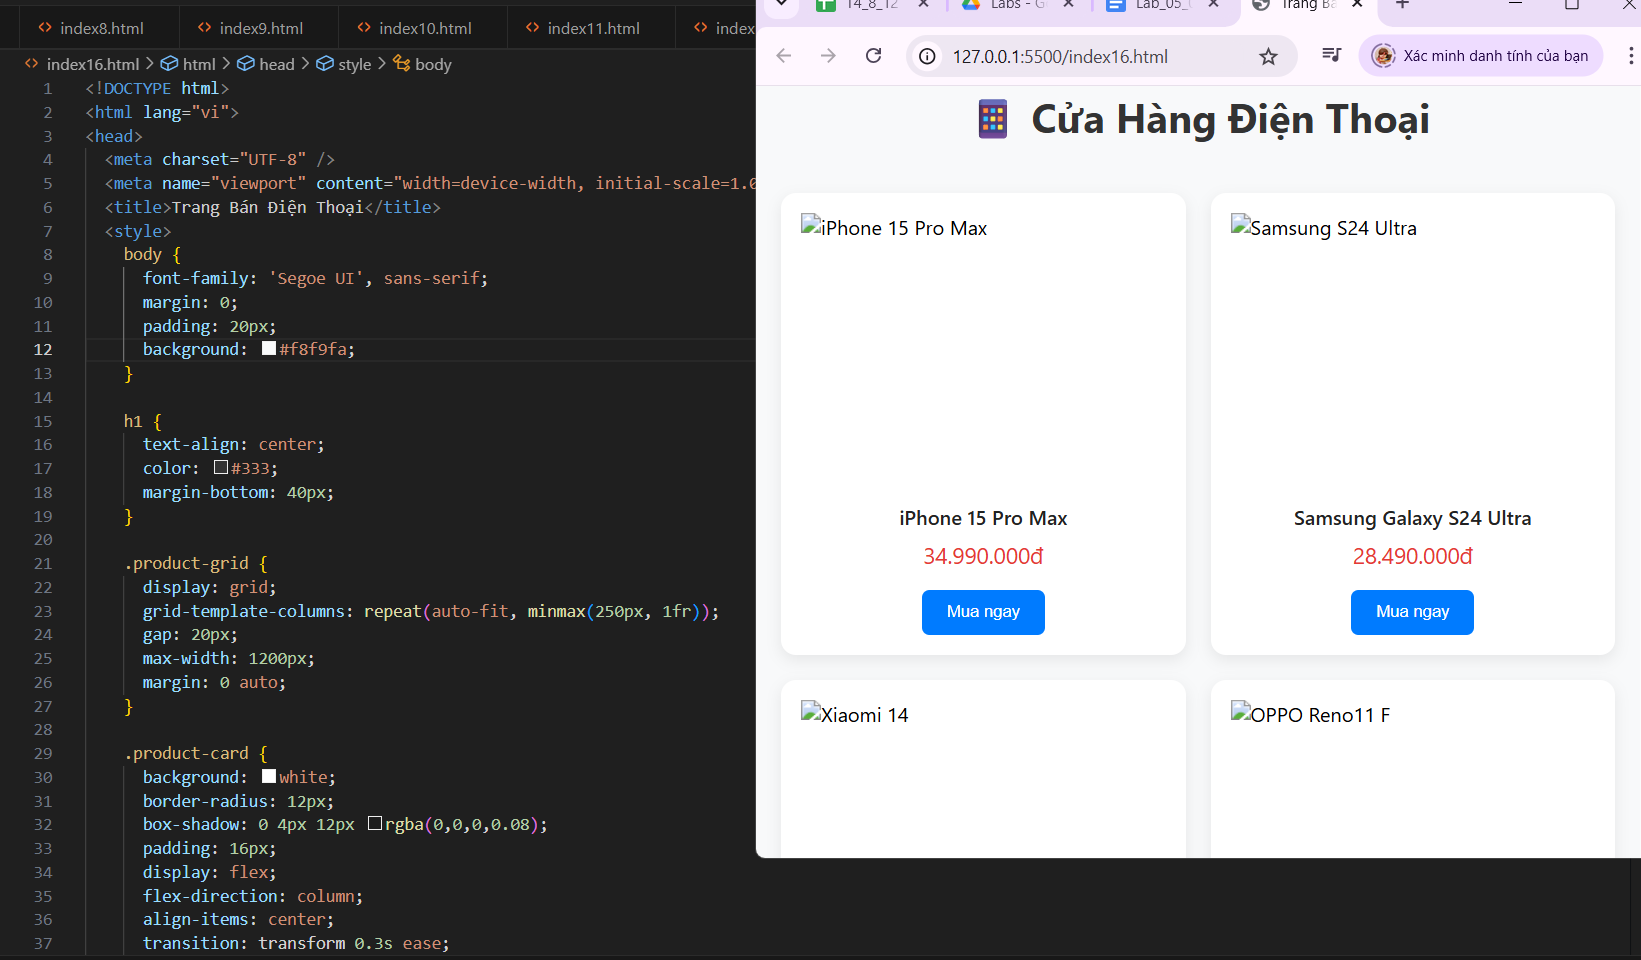
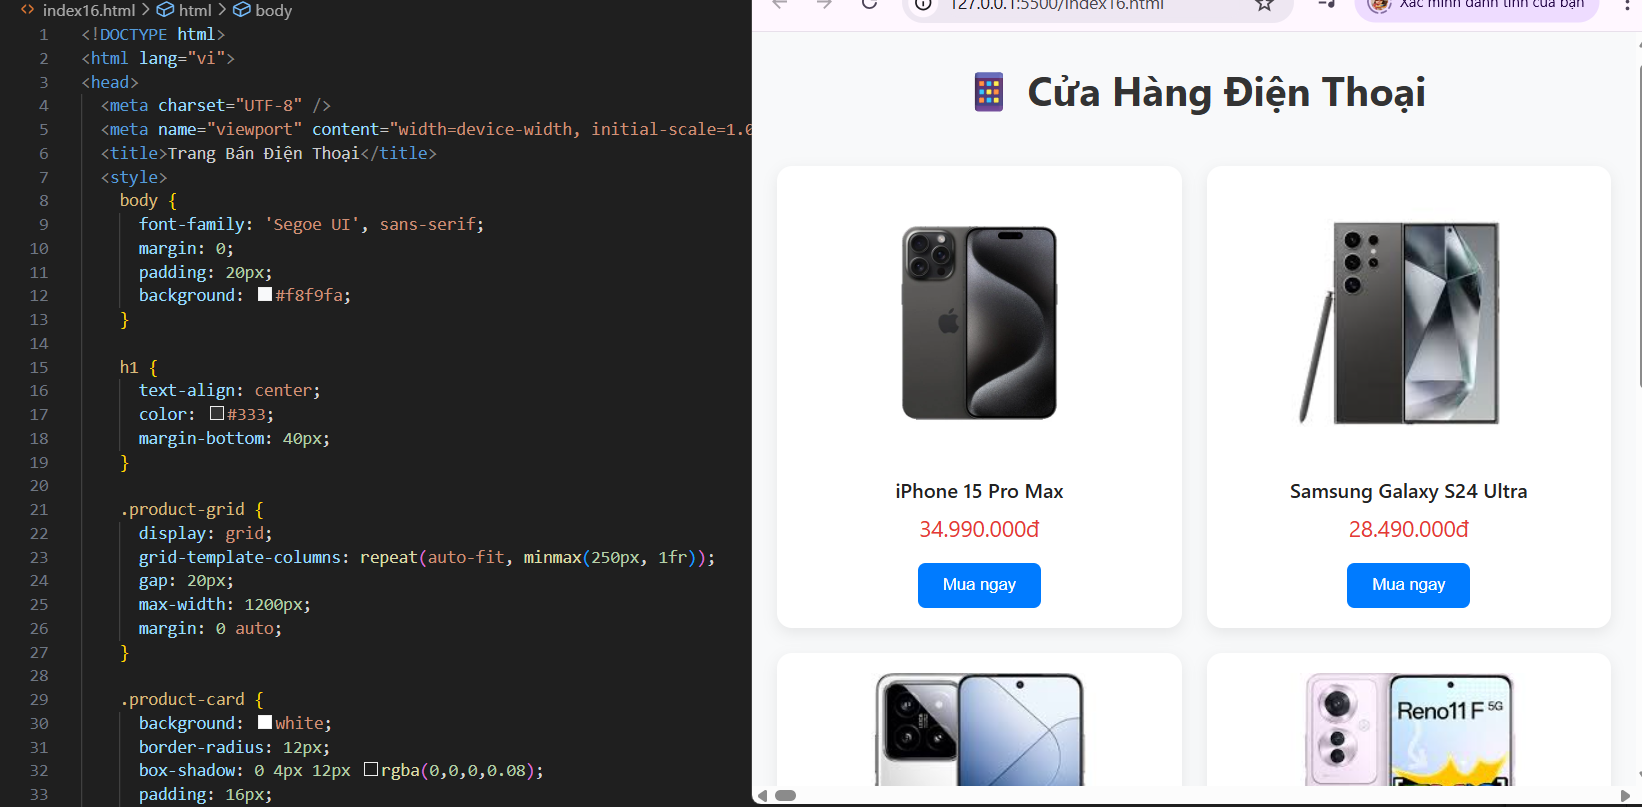
add file index16 + MC

diff --git a/index16.html b/index16.html
@@ -82,28 +82,28 @@
 
   <div class="product-grid">
     <div class="product-card">
-      <img src="https://cdn.tgdd.vn/Products/Images/42/303785/iphone-15-pro-max-blue-thumbnew-600x600.jpg" alt="iPhone 15 Pro Max">
+      <img src="https://cdn2.cellphones.com.vn/insecure/rs:fill:0:0/q:90/plain/https://cellphones.com.vn/media/wysiwyg/Phone/Apple/iphone_15/dien-thoai-iphone-15-pro-max-1.jpg" alt="iPhone 15 Pro Max">
       <div class="product-name">iPhone 15 Pro Max</div>
       <div class="product-price">34.990.000đ</div>
       <button class="buy-btn">Mua ngay</button>
     </div>
 
     <div class="product-card">
-      <img src="https://cdn.tgdd.vn/Products/Images/42/304109/samsung-galaxy-s24-ultra-xanh-600x600.jpg" alt="Samsung S24 Ultra">
[1 lines of base64/hex data omitted]
       <div class="product-name">Samsung Galaxy S24 Ultra</div>
       <div class="product-price">28.490.000đ</div>
       <button class="buy-btn">Mua ngay</button>
     </div>
 
     <div class="product-card">
-      <img src="https://cdn.tgdd.vn/Products/Images/42/309816/xiaomi-14-thumb-xanh-600x600.jpg" alt="Xiaomi 14">
[1 lines of base64/hex data omitted]
       <div class="product-name">Xiaomi 14</div>
       <div class="product-price">21.990.000đ</div>
       <button class="buy-btn">Mua ngay</button>
     </div>
 
     <div class="product-card">
-      <img src="https://cdn.tgdd.vn/Products/Images/42/309822/oppo-reno11-f-xanh-thumb-600x600.jpg" alt="OPPO Reno11 F">
[1 lines of base64/hex data omitted]
       <div class="product-name">OPPO Reno11 F</div>
       <div class="product-price">7.490.000đ</div>
       <button class="buy-btn">Mua ngay</button>
@@ -113,7 +113,7 @@
       <img src="https://cdn.tgdd.vn/Products/Images/42/309649/realme-12-5g-xanh-thumb-600x600.jpg" alt="Realme 12 5G">
       <div class="product-name">Realme 12 5G</div>
       <div class="product-price">6.490.000đ</div>
-      <button class="buy-btn">Mua ngay</button>
[1 lines of base64/hex data omitted]
     </div>
   </div>
 
